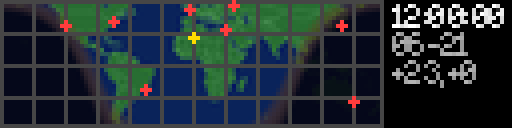
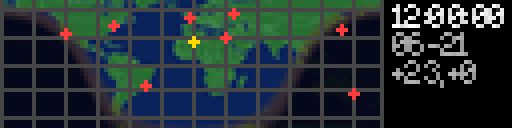
fix(geochron): widen wide_sidebar latitude band to +-70 degrees
Slightly larger than the previous +-60 to bring more of Canada,
Alaska, Scandinavia, and Iceland into view on wide_sidebar panels.

Regenerated previews and golden images for 128x32/256x32.

diff --git a/plugins/geochron/geochron_renderer.py b/plugins/geochron/geochron_renderer.py
@@ -37,13 +37,14 @@ def _layout(dw, dh, map_center_lon=0.0):
         sidebar_w = max(32, int(dw * 0.22))
         map_w = dw - sidebar_w
         map_h = dh
-        # Fixed +-60 degree latitude band: covers all default cities (max
-        # |lat| is Moscow at 55.75) and nearly all populated land, while
-        # excluding only the sparsely-populated polar regions. The
-        # aspect-based formula this replaced always floored to 30 degrees
-        # for wide_sidebar's aspect range (>=3.0), hiding most of North
-        # America, Europe, and northern Asia.
-        lat_half = 60.0
+        # Fixed +-70 degree latitude band: covers all default cities (max
+        # |lat| is Moscow at 55.75) plus the rest of Canada, Alaska,
+        # Scandinavia, and Iceland, while excluding only the largely empty
+        # high-Arctic/Antarctic regions. The aspect-based formula this
+        # replaced always floored to 30 degrees for wide_sidebar's aspect
+        # range (>=3.0), hiding most of North America, Europe, and northern
+        # Asia.
+        lat_half = 70.0
         lon_extent = 360.0
         lon_center = 0.0
     elif aspect >= 1.5:
